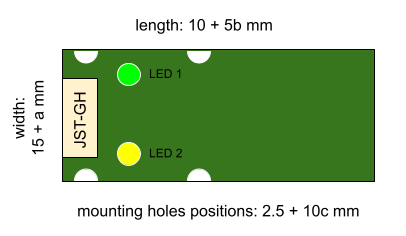
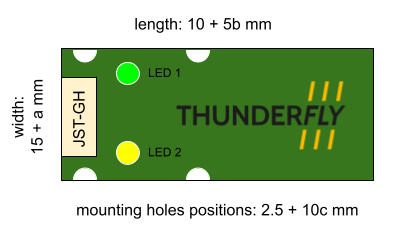
Imrove branding.
Add description of ThunderFly enclosure mounting.

diff --git a/avionics/index.md b/avionics/index.md
@@ -17,9 +17,9 @@ ThunderFly's avionics system consists of **high-performance hardware** designed 
 
 The development was originally motivated by the [TF-ATMON](https://docs.thunderfly.cz/instruments/TF-ATMON), which focuses on atmospheric measurements in harsh conditions. Therefore solution covers the entire workflow — from sensors and in-flight data acquisition, through data transmission, to final visualization — and this use case shaped the design of our avionics. All are developed and manufactured in Europe to meet rigorous aerospace and research standards.  
 
-### PCB Form Factor
+### ThunderFly Form Factor
 
-ThunderFly avionics modules are designed according to an internal PCB form factor standard. This ensures compatibility between different modules and allows them to be mounted in 3D-printed slots positioned in the airframe structure or combined into larger avionics blocks.
+ThunderFly avionics modules are designed according to an internal PCB form factor standard. This ensures compatibility between different modules.
 
 ![TF PCB form factor](TFPCB_avionics.png)
 
@@ -31,15 +31,19 @@ The dimensions are defined by three parameters:
 
 > Most commonly, the module width is 15 mm or 20 mm (a=0, a=5), depending on the JST-GH connector number of pins (typically 4-pin for I²C).  
 > This is why width sizing does not follow the same multiples as horizontal sizing.
+> Mounting notches with a radius of 1.5 mm are positioned on both sides of the PCB. May be skipped (even asymmetrically) for relevant construction reasons. Their placement is always measured from the connector edge, ensuring consistent mechanical alignment.
 
-Other important features:
+#### Example of Enclosure Mounting
 
-- **Mounting notches** with a radius of **1.5 mm** are positioned on both sides of the PCB. May be skipped (even asymmetrically) for relevant construction reasons.  
-  Their placement is always measured from the connector edge, ensuring consistent mechanical alignment.
-- The design allows avionics modules to be slid into slots in UAV structures, making it easy to assemble multiple boards into a compact block or distribute them individually across the airframe.
+The standardized PCB form factor also makes it straightforward to design **protective enclosures**.  
+Modules can be fixed inside 3D-printed or CNC-machined cases using the PCB notches. These notches slides in slots of the enclosure and allow secure mounting with just two screws.
 
-This standardized approach guarantees that ThunderFly avionics are not random in size, but instead follow a **systematic and modular design philosophy**.
+![Module in enclosure, perspective view](TFPCB_box.png)
 
+![ThunderFly module in enclosure, top view, with screws](TFPCB_box_mounting_screws.png)
+
+This approach ensures that avionics modules remain mechanically protected while still being lightweight and easily accesible to service.  
+The modular block concept allows either grouping multiple avionics units together or distributing them in different airframe compartments depending on mission requirements.
 
 ### How to Order
 
